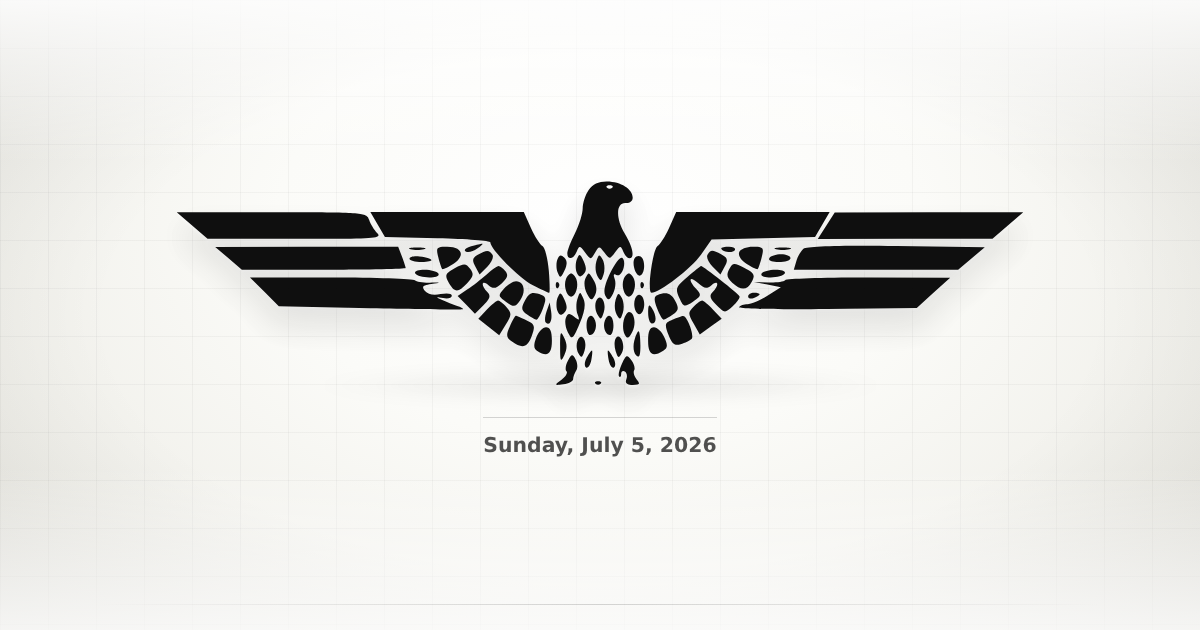
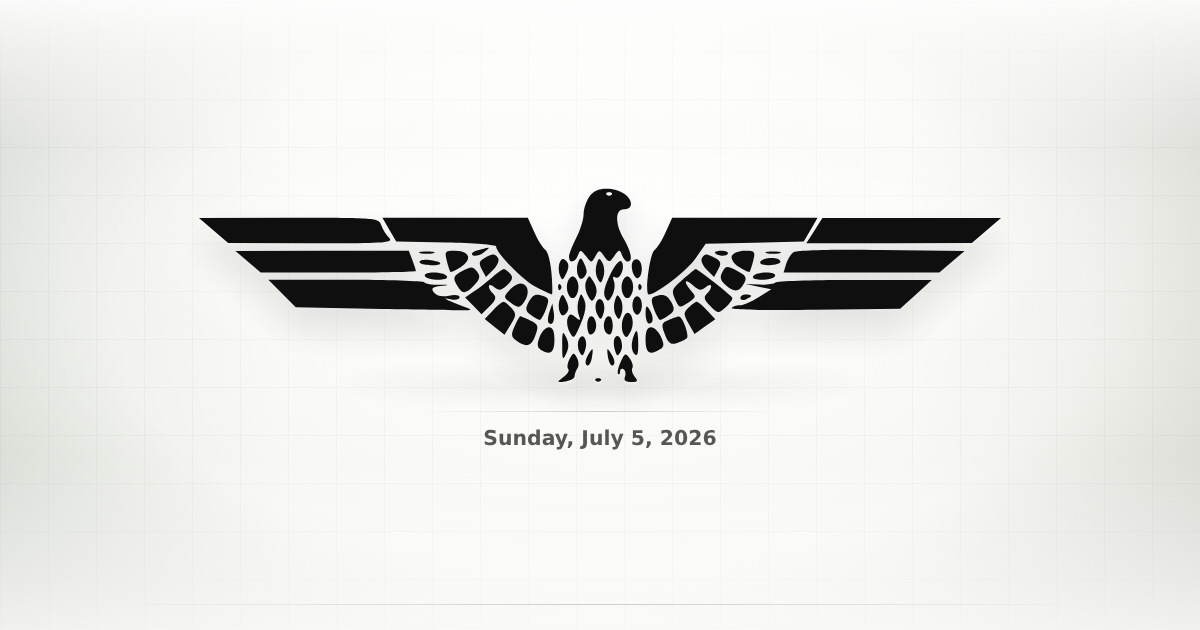
Restore the frozen date over PR #6's live date, keep its styling
Per explicit confirmation: the date stays fixed at Sunday, July 5,
2026, forever. Removes the DateDisplay/date-utils live-date machinery
and force-dynamic rendering that PR #6 introduced (the page is fully
static again), while keeping all of its visual refinements — halo
behind the eagle, refined palette, aspect-ratio sizing, centered
hairline, overscroll and containment tweaks. OG image regenerated
with the new styling and dated metadata restored.

Claude-Session: https://claude.ai/code/session_01UxsxFvMXEXPAS8E5GRd8dL

Changed region(s): [[0.1542, 0.3317, 0.8633, 0.6032], [0.4008, 0.6333, 0.6167, 0.7238], [0.4625, 0.2714, 0.5242, 0.3317]]

diff --git a/app/page.jsx b/app/page.jsx
@@ -1,14 +1,14 @@
 import Eagle from "./eagle";
-import DateDisplay from "./date-display";
-import { formatToday } from "./date-utils";
 import ThemeToggle from "./theme-toggle";
 
+const DATE_LABEL = "Sunday, July 5, 2026";
+const DATE_ISO = "2026-07-05";
 const DESCRIPTION = "One eagle. One date.";
 
 export const metadata = {
-  title: "Eagle",
+  title: `Eagle — ${DATE_LABEL}`,
   openGraph: {
-    title: "Eagle",
+    title: `Eagle — ${DATE_LABEL}`,
     description: DESCRIPTION,
     url: "/",
     siteName: "Eagle",
@@ -18,28 +18,26 @@ export const metadata = {
         url: "/og.png",
         width: 1200,
         height: 630,
-        alt: "Black eagle above today's date",
+        alt: `Black eagle above the date ${DATE_LABEL}`,
       },
     ],
   },
   twitter: {
     card: "summary_large_image",
-    title: "Eagle",
+    title: `Eagle — ${DATE_LABEL}`,
     description: DESCRIPTION,
     images: ["/og.png"],
   },
 };
 
-export const dynamic = "force-dynamic";
-
 export default function Home() {
-  const initialDate = formatToday(new Date());
-
   return (
     <main className="home" aria-label="Eagle homepage">
       <ThemeToggle />
       <Eagle />
-      <DateDisplay initialDate={initialDate} />
+      <time className="date" dateTime={DATE_ISO}>
+        {DATE_LABEL}
+      </time>
     </main>
   );
 }
